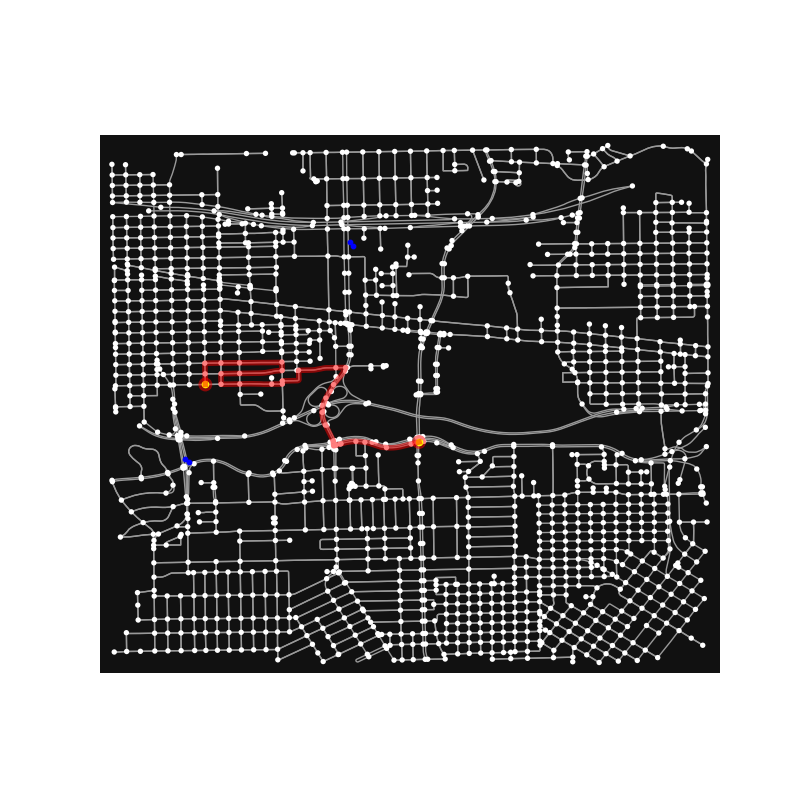
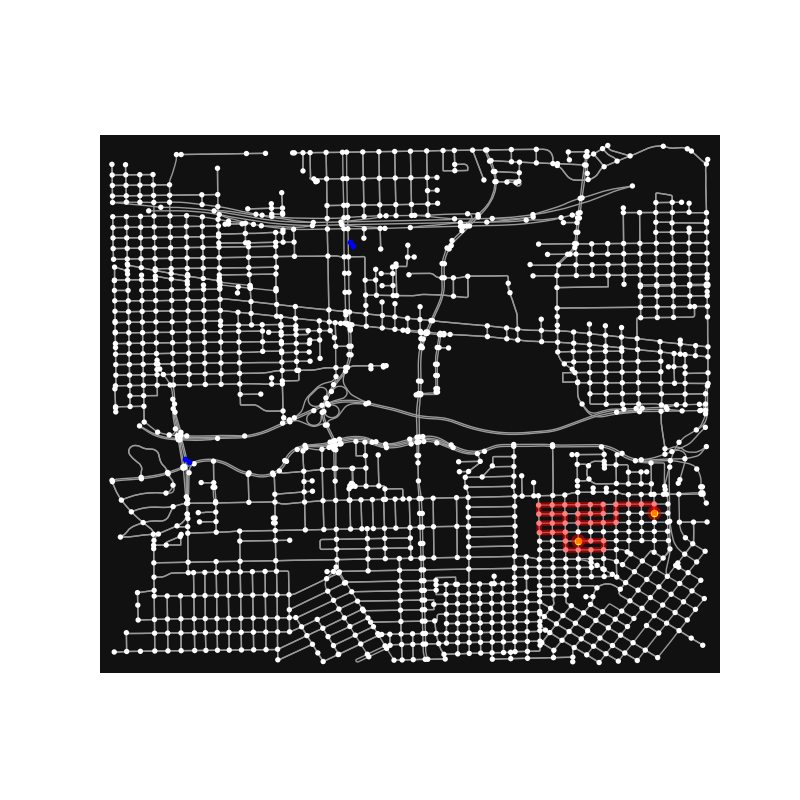
add envolving

diff --git a/src/gym_graph_map/envs/graph_map_env_v4.py b/src/gym_graph_map/envs/graph_map_env_v4.py
@@ -6,6 +6,7 @@ Version 4 of the Graph Map Environment with the following changes:
     config dict to its default values.
 3. The environment now has a new state as a sequence as observation space so the model won't have to learn to
     handle the wrapper stuff.
+4. The environment now has a envolving environment based on a marsh attribute and elevation attribute.
 """
 from pathlib import Path
 
@@ -29,7 +30,8 @@ from ray import tune
 
 repo_path = str(Path.home()) + "/dev/GraphRouteOptimizationRL/"
 
-class GraphMapEnvV2(gym.Env):
+
+class GraphMapEnvV4(gym.Env):
     """
     Custom Environment that follows gym interface
     V2 is the version that uses the compatible with rllib
@@ -151,11 +153,17 @@ class GraphMapEnvV2(gym.Env):
             self.current_distance2neg
         Uncomment self.action_space to update the neighbors if use MaskedSpace
         """
+
         # forward neighbors
         self.neighbors = list(x for x in self.reindexed_graph.neighbors(
             self.current) if x not in self.passed_nodes_ids)
 
+        for n in self.neighbors:
+            self.neighbors_embedding[n] =
+
         # self.action_space.neighbors = self.neighbors
+
+        self.neighbors_
 
         self.current_distance2goal = self._great_circle_vec(
             self.current_node, self.goal_node)
@@ -185,7 +193,7 @@ class GraphMapEnvV2(gym.Env):
         #     0, self.number_of_nodes - len(self.nx_shortest_path)), mode='constant', constant_values=0)
         nx_path_embedding = np.sum(
             [self.embedding[n] for n in np.array(self.nx_shortest_path)], axis=0)
-        
+
         self.current_path_embedding += self.embedding[self.current]
 
         self.state = {
@@ -206,15 +214,14 @@ class GraphMapEnvV2(gym.Env):
         # Constant values
         self.graph = config['graph']
         self.verbose = config['verbose'] if config['verbose'] else False
-        neg_df = pd.read_csv(config['neg_df_path'])
         center_node = config['center_node']
         self.threshold = config['threshold']
         # graph radius or average short path in this graph, sampled by env stat
         self.threshold = 2900
-        self.neg_points = self._get_neg_points(neg_df, center_node)
-
-        if self.neg_points == []:
-            raise ValueError("Negative weights not found")
+        self.neg_points = self._get_neg_points(
+            pd.read_csv(config['neg_df_path']), center_node)
+        self.envolving = config['envolving']
+        self.envolving_freq = config['envolving_freq']
 
         self.avoid_threshold = self.threshold / 7
         self.number_of_nodes = self.graph.number_of_nodes()
@@ -274,7 +281,7 @@ class GraphMapEnvV2(gym.Env):
         """
         neg_nodes = []
         center_node = {'y': center_node[0], 'x': center_node[1]}
-        self.df = pd.DataFrame(columns=df.columns)
+        self.neg_df = pd.DataFrame(columns=['Latitude', 'Longitude', 'weight'])
         index = 0
 
         for _, row in df.iterrows():
@@ -284,7 +291,7 @@ class GraphMapEnvV2(gym.Env):
             # caculate the distance between the node and the center node
             if dist <= self.threshold:
                 neg_nodes.append(node)
-                self.df.loc[index] = row
+                self.neg_df.loc[index] = [row[0], row[1], row[2]]
                 index += 1
         return neg_nodes
 
@@ -325,6 +332,22 @@ class GraphMapEnvV2(gym.Env):
             if dist < closest_dist:
                 closest_dist = dist
         return closest_dist
+
+    def _envolving(self):
+        """
+        Envolving
+        """
+        # TODO: choice with elevation
+        if self.envolving and self.current_step % self.envolving_freq == 0:
+            envolving_node = self.graph.nodes[np.random.choice(
+                self.number_of_nodes)]
+            node = {'y': envolving_node['y'],
+                    'x': envolving_node['x'], 'weight': 10}
+            self.neg_points.append(node)
+            series = pd.Series(
+                [envolving_node['y'], envolving_node['x'], 10])
+            self.neg_df = pd.concat(
+                [self.neg_df, series.to_frame().T], ignore_index=True)
 
     def _reward(self):
         """
@@ -380,6 +403,8 @@ class GraphMapEnvV2(gym.Env):
         self.current_step += 1
         self.path.append(self.current)
         self.passed_nodes_ids.add(self.current)
+
+        self._envolving()
 
         if self.verbose:
             print("self.path:", self.path)
@@ -455,6 +480,7 @@ class GraphMapEnvV2(gym.Env):
         self.neighbors = []
         self.current_path_embedding = np.zeros(8, np.float32)
         self.info = {'arrived': False}
+        self.neighbors_embedding = np.zeros(self.number_of_nodes)
 
         # self._check_origin_goal_distance()
 
@@ -506,7 +532,7 @@ class GraphMapEnvV2(gym.Env):
 
                 # plot negative points
                 gdf_neg = geopandas.GeoDataFrame(
-                    self.df, geometry=geopandas.points_from_xy(self.df['Longitude'], self.df['Latitude']))
+                    self.neg_df, geometry=geopandas.points_from_xy(self.neg_df['Longitude'], self.neg_df['Latitude']))
                 gdf_neg.plot(ax=ax, markersize=10,
                              color="blue", alpha=1, zorder=7)
 

diff --git a/src/v4_rllib_embeddings_retrain.py b/src/v4_rllib_embeddings_retrain.py
@@ -6,7 +6,7 @@ import osmnx as ox
 import pandas as pd
 import gym
 from gym.spaces import Box, Discrete
-from gym_graph_map.envs.graph_map_env_v2 import GraphMapEnvV2 as GraphMapEnv
+from gym_graph_map.envs.graph_map_env_v4 import GraphMapEnvV4 as GraphMapEnv
 
 # model
 import ray
@@ -61,13 +61,14 @@ def create_policy_eval_video(env, trainer, filename="eval_video", num_episodes=2
 args = {
     'no_masking': False,
     'run': 'PPO',
-    'stop_iters': 500,  # stop iters for each step
+    'stop_iters': 200,  # stop iters for each step
     'stop_timesteps': 1e+8,
     'stop_episode_reward_mean': 3.0,
     'train': True,
     'checkpoint_path': '',
     'wandb': True,
     'framework': 'tf2',
+    'resume_name': '',
 }
 
 if __name__ == "__main__":
@@ -85,18 +86,20 @@ if __name__ == "__main__":
         # 'center_node': (29.72346214336903, -95.38599726549226), # houston
         'threshold': 2900,
         'embedding_path': embedding_dir + "houston_tx_usa_drive_2000_slope_node2vec.npy",
+        'envolving': True, # neg envolving
+        'envolving_freq': 10, # every nth step
     }
     config = {
         "env": GraphMapEnv,
         "env_config": env_config,
         "model": {
             "custom_model": TorchActionMaskModel if args["framework"] == "torch" else ActionMaskModel,
-            "fcnet_hiddens": [256, 512, 1508],
+            "fcnet_hiddens": [256, 512, 256],
             "fcnet_activation": "tanh",
             "use_lstm": False,
-            "dim": 256,
             "max_seq_len": 100,
             "lstm_cell_size": 256,
+            "dim": 128,
             # "use_attention": False,
             # "attention_head_dim": 64,
             # "attention_dim": 256,
@@ -121,7 +124,8 @@ if __name__ == "__main__":
         "lr": 0.0005,  # 0.0003 or 0.0005 seem to work fine as well.
         'exploration_config': {
             "type": "Curiosity",
-            "eta": 0.5,  # tune.grid_search([1.0, 0.5, 0.1]),  # curiosity
+            # tune.grid_search([1.0, 0.5, 0.1]),  # curiosity
+            "eta": 0.5,
             "beta": 0.5,  # tune.grid_search([0.7, 0.5, 0.1]),
             "feature_dim": 256,  # curiosity
             # No actual feature net: map directly from observations to feature vector (linearly).
@@ -160,15 +164,15 @@ if __name__ == "__main__":
     else:
         cb = None
 
-    checkpoints = None
     if args['train']:
-        # run with tune for auto trainer creation, stopping, TensorBoard, etc.
-        results = tune.run(args['run'], config=config, stop=stop, verbose=0,
-                           callbacks=cb,
-                           keep_checkpoints_num=1,
-                           checkpoint_at_end=True,
-                           # search_alg=hyperopt_search,
-                           )
+        if args['resume_name'] != "":
+            results = tune.run(args['run'], stop=stop, verbose=0, callbacks=cb, keep_checkpoints_num=1,
+                               checkpoint_at_end=True, resume=True, name=args['resume_name'])
+        else:
+            results = tune.run(args['run'], config=config, stop=stop, verbose=0, callbacks=cb,
+                               keep_checkpoints_num=1, checkpoint_at_end=True,
+                               # search_alg=hyperopt_search,
+                               )
 
         print("Finished successfully without selecting invalid actions.", results)
 
@@ -177,11 +181,9 @@ if __name__ == "__main__":
         checkpoints = results.get_trial_checkpoints_paths(
             trial, metric="episode_reward_mean")
         print("Best checkpoint:", checkpoints)
+        args['checkpoint_path'] = checkpoints[0][0]
 
-    if checkpoints:
-        checkpoint_path = checkpoints[0][0]
-    else:
-        checkpoint_path = args['checkpoint_path']
+    checkpoint_path = args['checkpoint_path']
     # ppo_config = ppo.DEFAULT_CONFIG.copy()
     # ppo_config.update(config)
     # config['num_workers'] = 0
